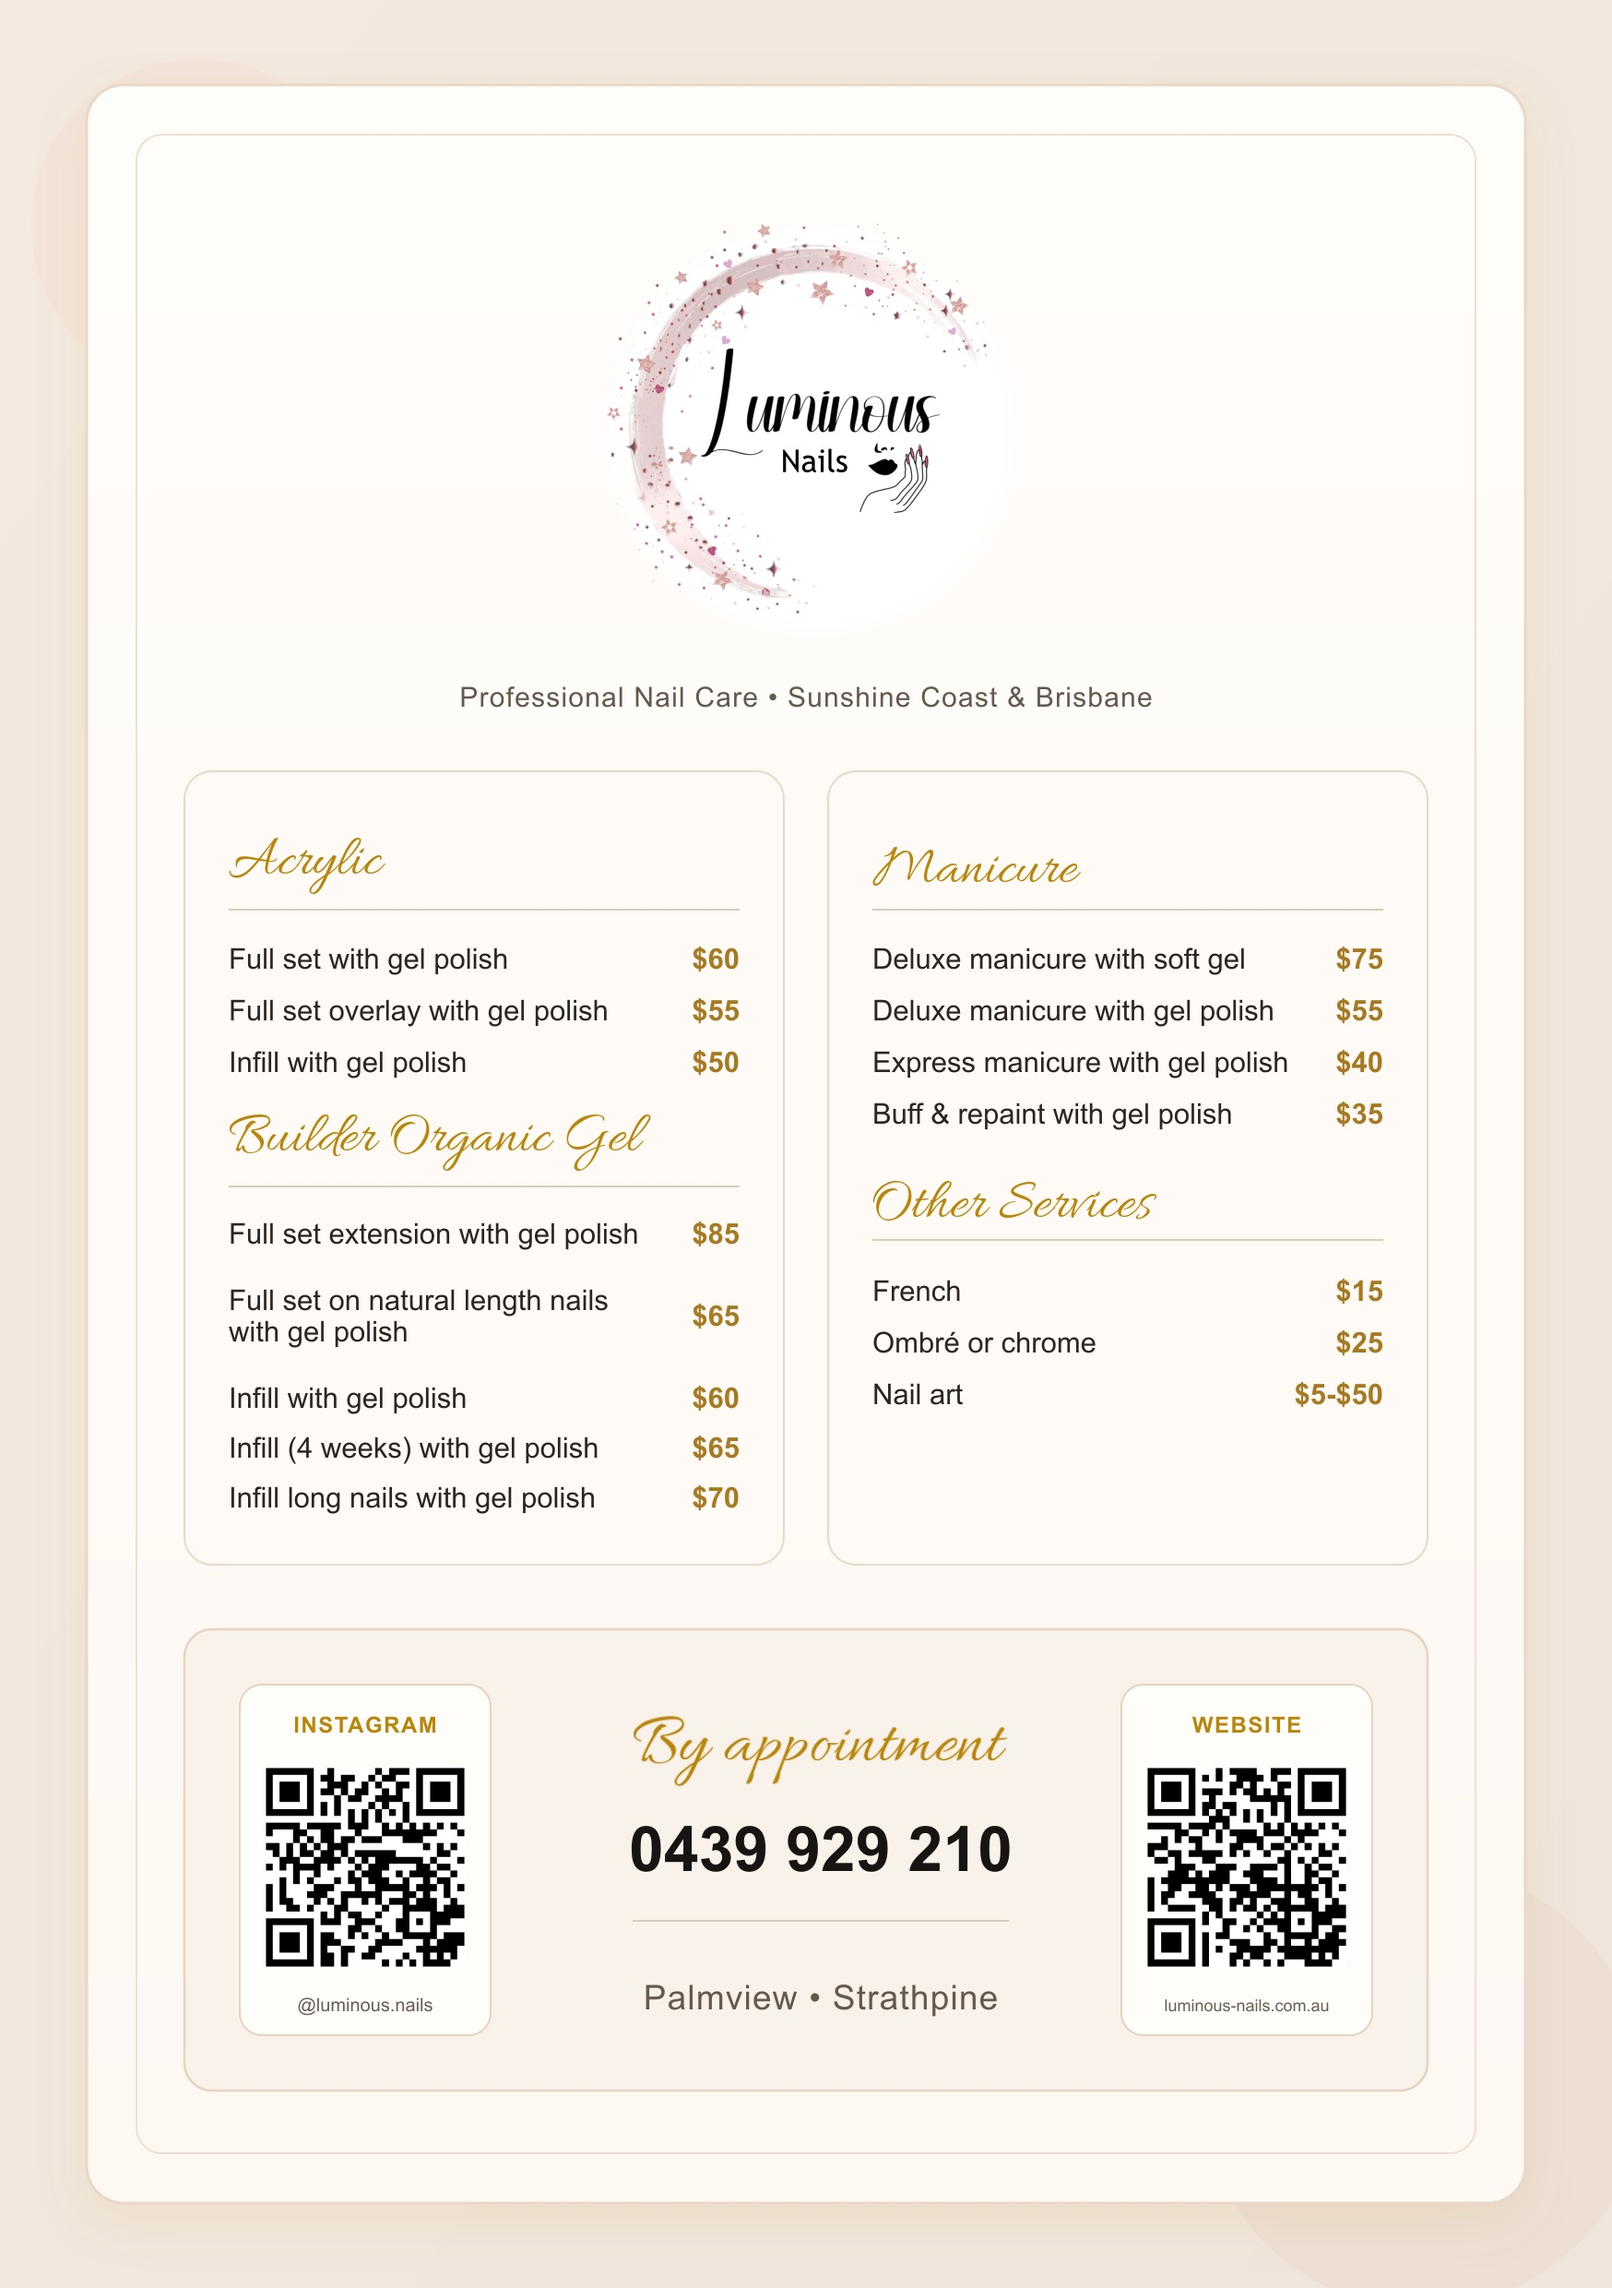
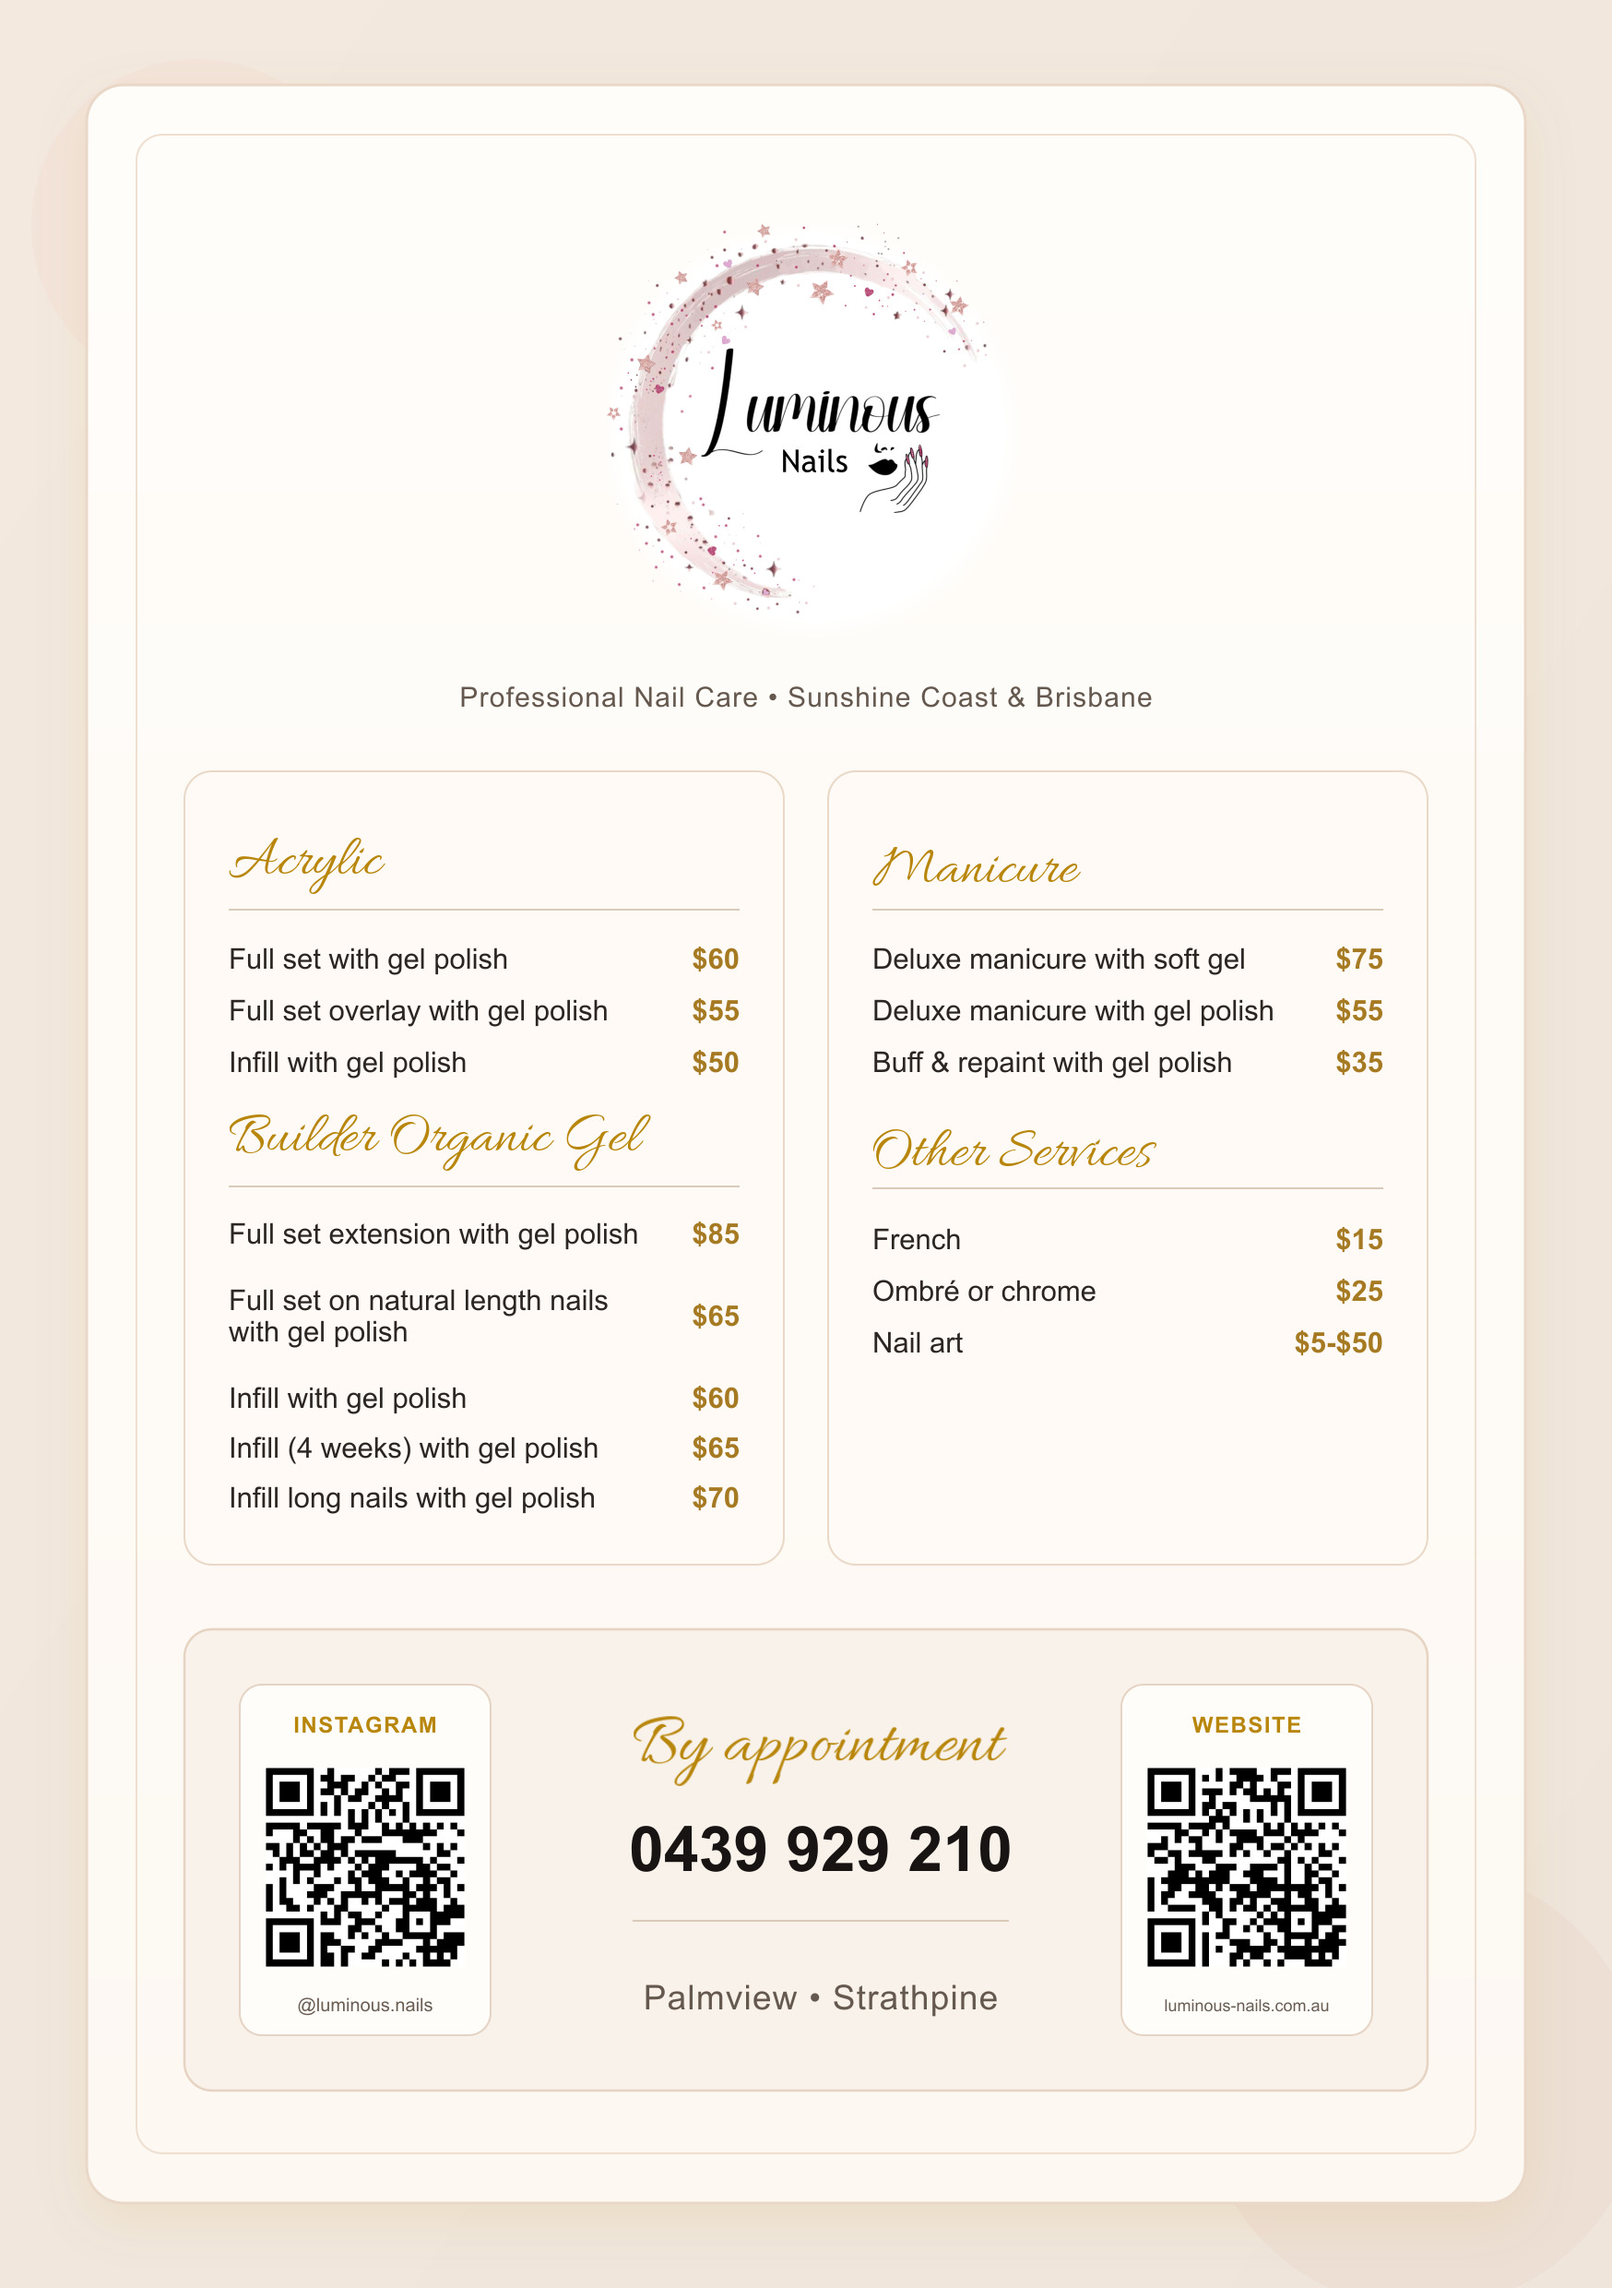
Remove express manicure from flyer and add export script

diff --git a/index.html b/index.html
@@ -158,12 +158,6 @@
                 <span class="service-price">$55</span>
               </li>
               <li class="service-item">
-                <span class="service-name"
-                  >Express manicure with gel polish</span
-                >
-                <span class="service-price">$40</span>
-              </li>
-              <li class="service-item">
                 <span class="service-name">Buff & repaint with gel polish</span>
                 <span class="service-price">$35</span>
               </li>

diff --git a/FLYER.md b/FLYER.md
@@ -175,6 +175,7 @@ The cards are intentionally light and understated so the pricing information rem
 - Each category is separated by a light rule
 - Service rows are compact but readable
 - The bottom rows clear the card borders cleanly
+- When a service row is added or removed, rebalance the following section break so the whitespace above the next category remains visually consistent with the other category breaks in that card
 
 The internal spacing has been tuned so the cards feel optically balanced rather than mathematically sparse.
 
@@ -346,3 +347,9 @@ The full street addresses remain website content, not flyer copy.
   - `flyer/logo-full.png`
 
 The SVG should remain the canonical working source unless the flyer is deliberately re-authored into a different approved master format later.
+
+## Latest Synced Export
+
+- Export date: `2026-04-12`
+- Notable change: removed `Express manicure with gel polish` so the flyer service list matches the live website manicure section.
+- Follow-up adjustment: moved the `Other Services` subsection up to preserve the same inter-section whitespace used elsewhere in the right-hand card.

diff --git a/flyer/README.md b/flyer/README.md
@@ -18,6 +18,14 @@ Whenever the flyer is changed and exported:
 2. Commit the updated files to git in the same task.
 3. Update `FLYER.md` with the export date and any notable design changes.
 
+## Export Command
+
+Use the local helper script from the repo root or from this folder:
+
+- `flyer/export_flyer.sh`
+
+It regenerates the canonical PDF, PNG, and JPG from `luminous-nails-pricelist.svg` using `rsvg-convert` and `magick`.
+
 ## Notes
 
 - The PDF is the print version.
